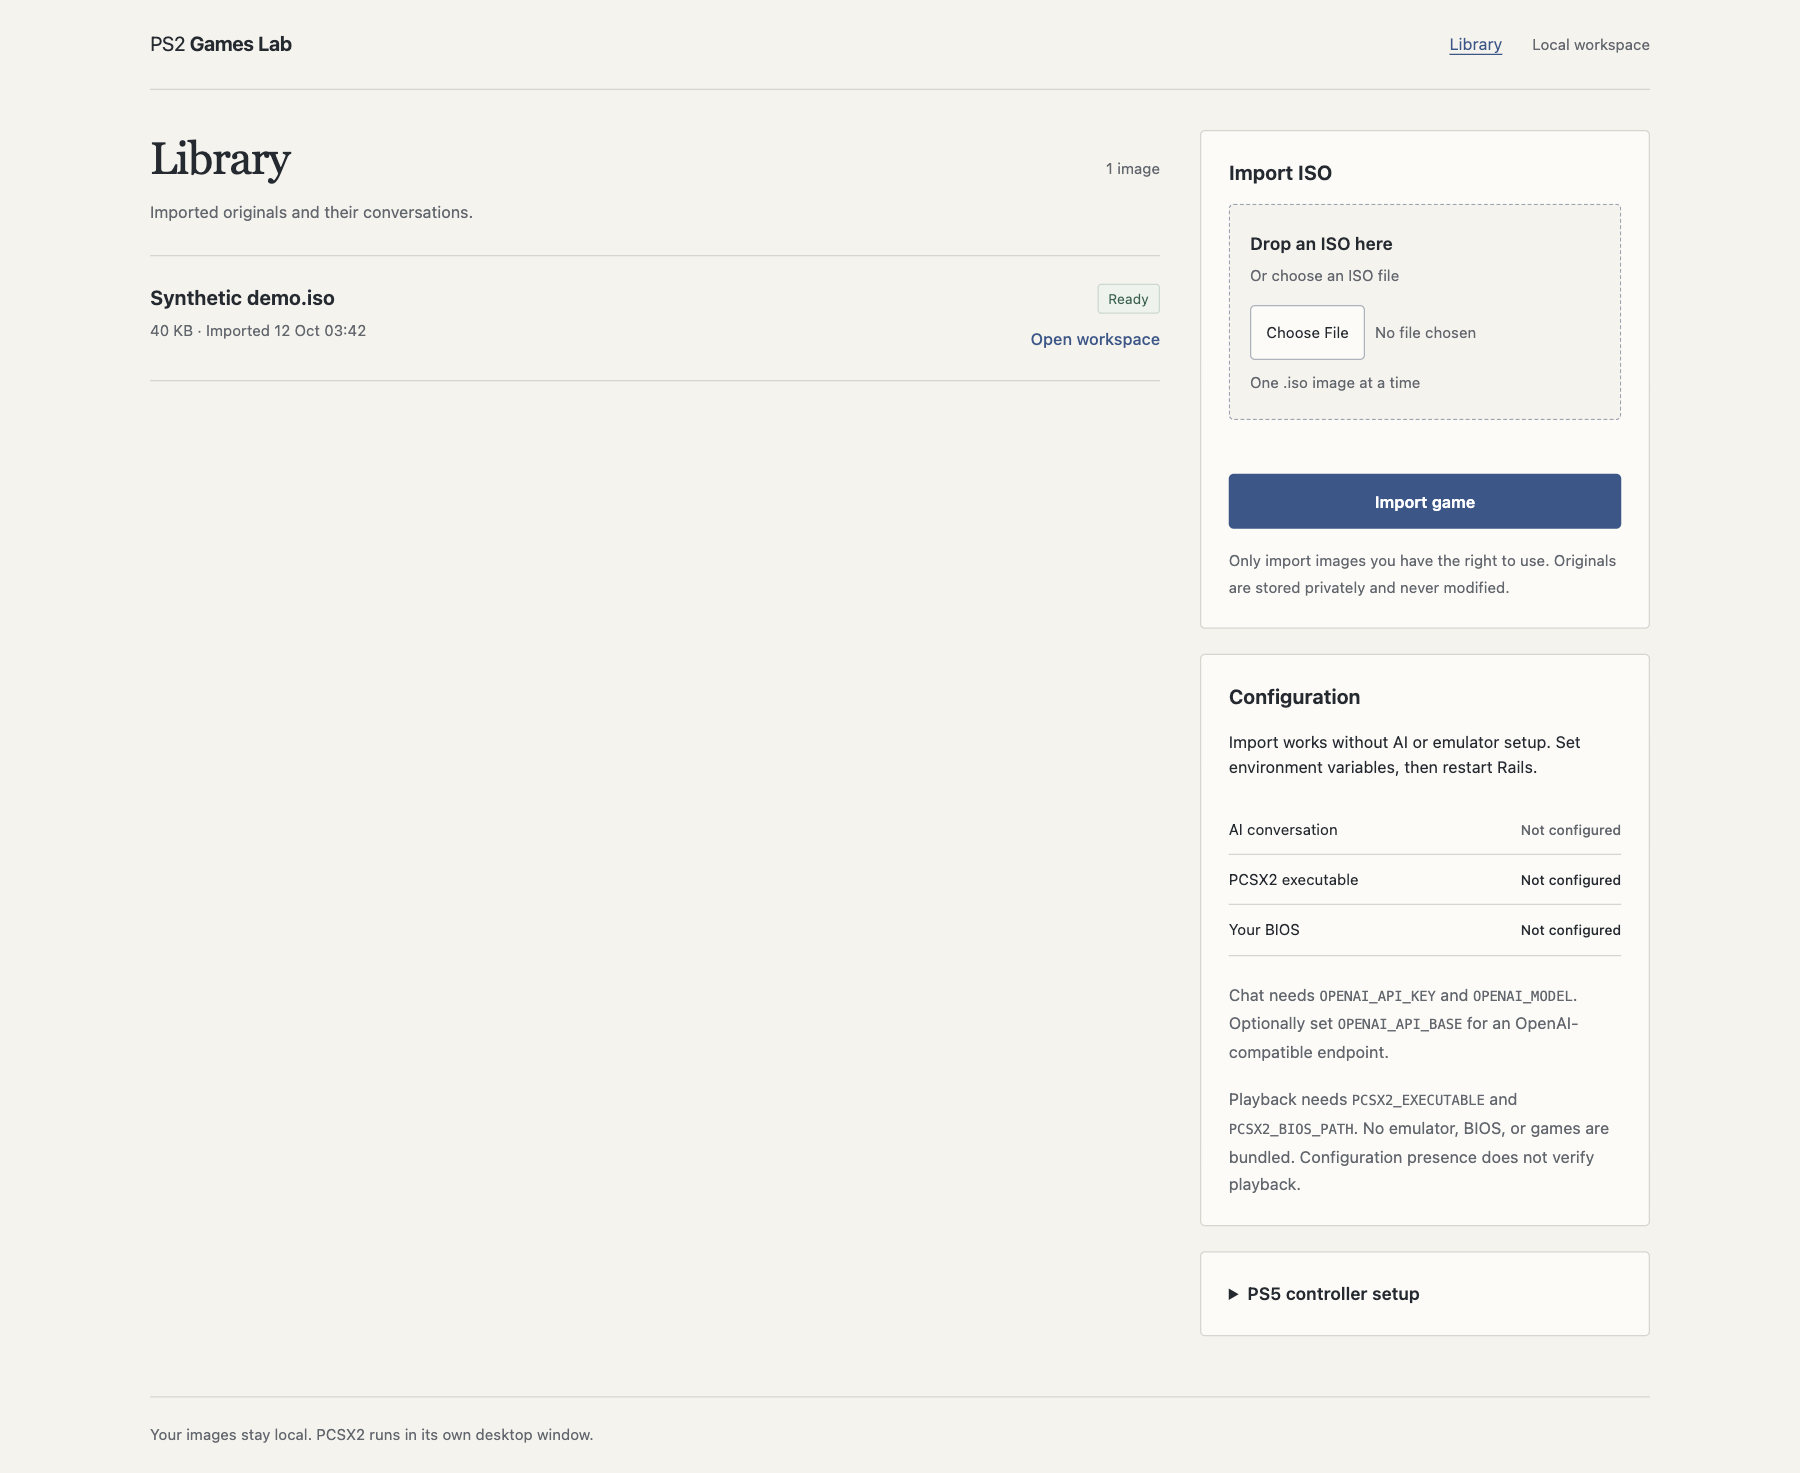
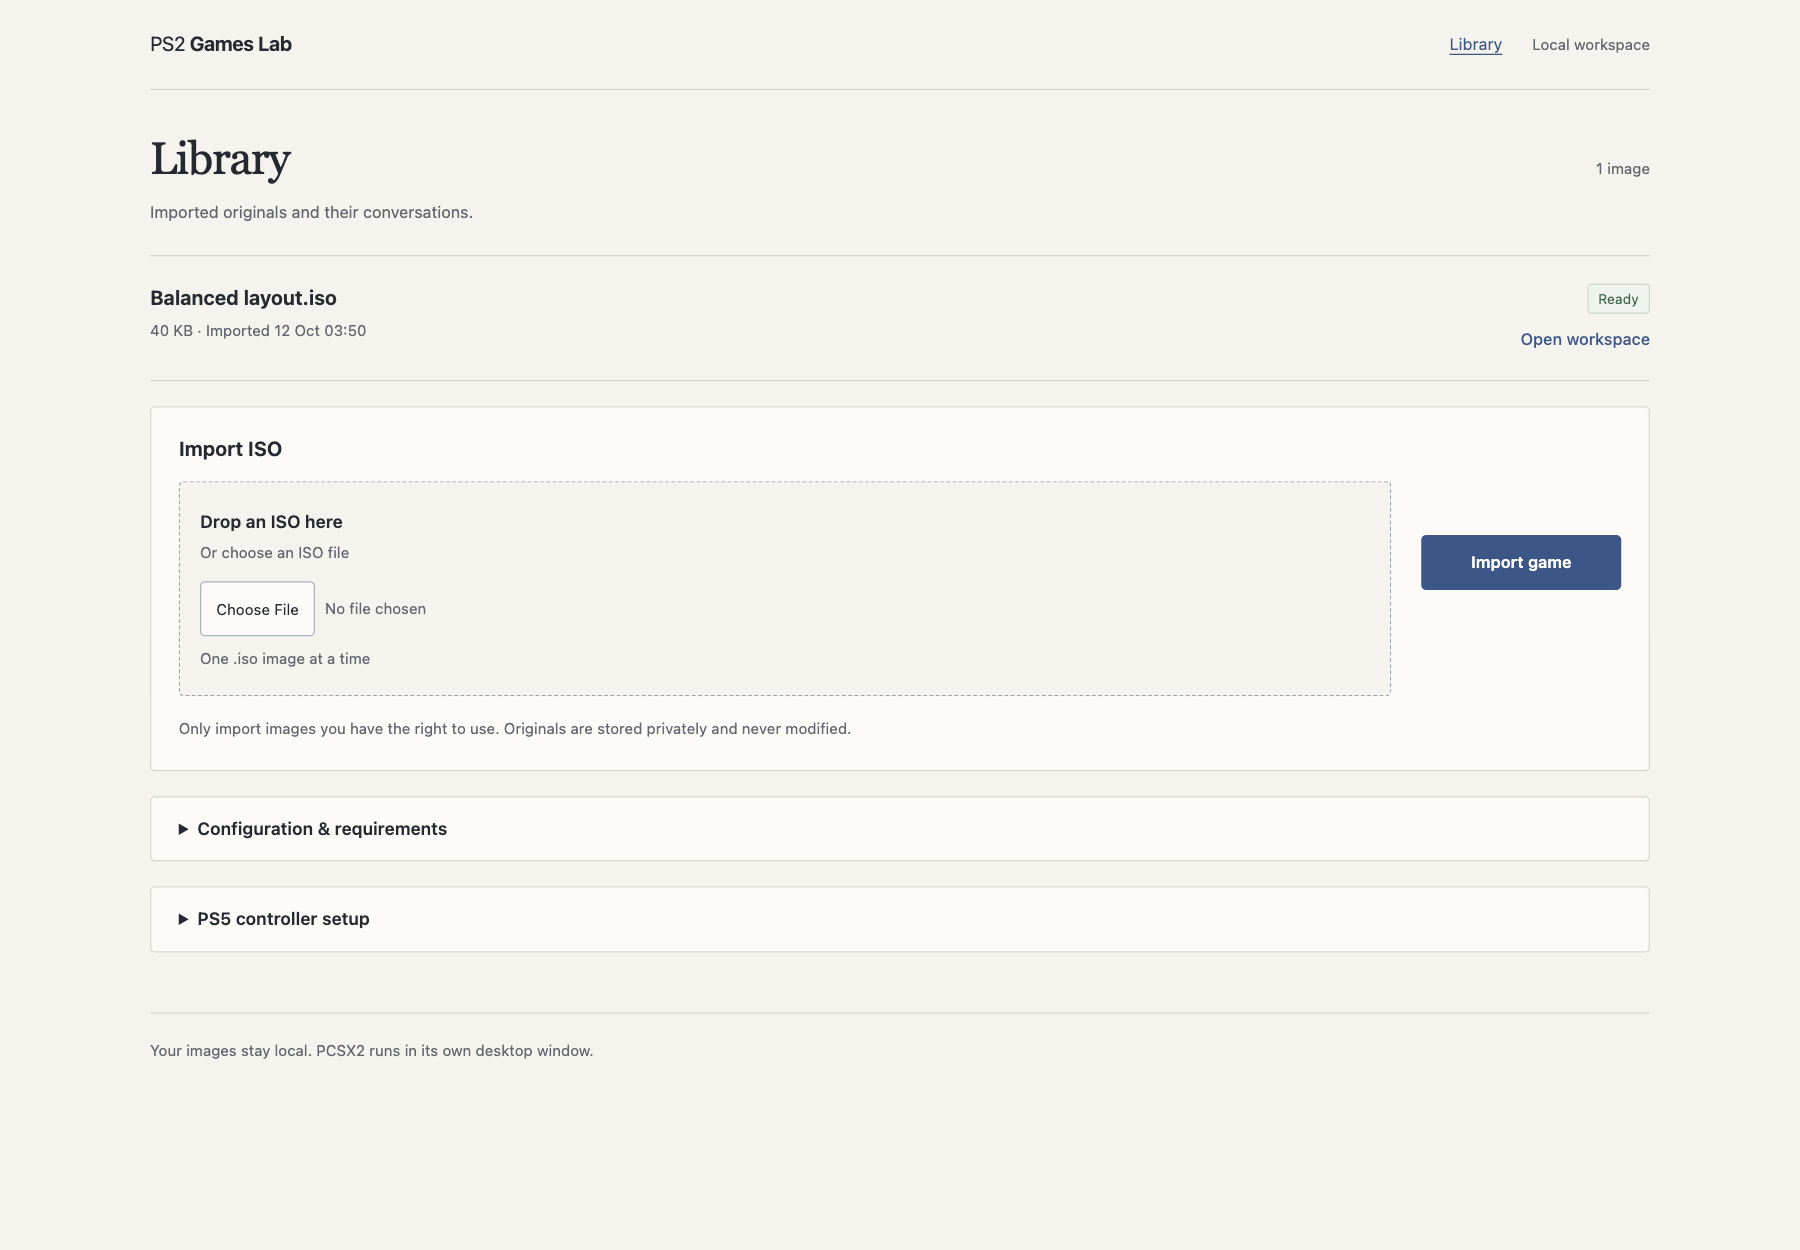
Balance library and workspace with full-width content flow

diff --git a/app/assets/stylesheets/application.css b/app/assets/stylesheets/application.css
@@ -67,21 +67,29 @@ code { font-family: ui-monospace, SFMono-Regular, monospace; font-size: .85em; o
 .skip-link { position: absolute; left: 20px; top: -100px; z-index: 10; padding: 10px 14px; background: var(--paper); }
 .skip-link:focus { top: 10px; }
 
-.library-grid, .workspace-grid {
-  display: grid;
-  grid-template-columns: minmax(0, 1fr) minmax(310px, 360px);
-  align-items: start;
-  gap: 32px;
-}
-.library-section, .library-sidebar, .image-sidebar { min-width: 0; }
-.library-sidebar, .image-sidebar { display: grid; gap: 20px; }
+.library-layout, .game-layout, .library-tools, .workspace-details { display: grid; gap: 20px; min-width: 0; }
+.library-section { min-width: 0; }
+.library-tools > details, .workspace-details > details { padding-block: 14px; }
+details > summary { cursor: pointer; font-size: 14px; font-weight: 600; }
+.import-panel form { display: grid; grid-template-columns: minmax(0, 1fr) auto; gap: 0 24px; align-items: center; }
+.import-panel .drop-zone { grid-row: 1 / 4; }
+.import-panel input[type="submit"] { grid-column: 2; width: auto; min-width: 160px; }
+.import-panel .upload-feedback, .import-panel .upload-progress { grid-column: 2; max-width: 280px; }
+.playback-panel { display: grid; grid-template-columns: minmax(0, 1fr) auto; gap: 8px 24px; align-items: center; }
+.playback-heading { display: flex; align-items: baseline; gap: 16px; flex-wrap: wrap; }
+.playback-heading h2 { margin: 0; }
+.playback-heading span { font-size: 12px; }
+.playback-panel > form { grid-column: 2; grid-row: 1 / 3; }
+.playback-panel > p { margin: 0; font-size: 12px; color: var(--muted); }
+.playback-panel > .notice, .playback-panel > .error-text, .playback-panel > .fine-print { grid-column: 1 / -1; margin: 0; }
+.message-content { max-width: 85ch; }
 .section-bar { display: flex; align-items: baseline; justify-content: space-between; gap: 16px; }
 .section-bar > span { font-size: 12px; white-space: nowrap; }
 .section-description { margin: 10px 0 24px; color: var(--muted); font-size: 13px; }
 .panel { min-width: 0; background: var(--paper); border: 1px solid var(--line); border-radius: var(--radius); padding: 22px; }
-.empty-state { padding: 32px 0; border-top: 1px solid var(--line); border-bottom: 1px solid var(--line); }
+.empty-state { padding: 24px 0; border-top: 1px solid var(--line); border-bottom: 1px solid var(--line); }
 .empty-state h2 { margin-bottom: 8px; }
-.empty-state p { max-width: 440px; color: var(--muted); font-size: 14px; }
+.empty-state p { margin-bottom: 0; color: var(--muted); font-size: 14px; }
 .game-list { border-top: 1px solid var(--line); }
 .game-row {
   display: grid;
@@ -123,7 +131,7 @@ progress { display: block; width: 100%; height: 10px; margin-top: 8px; accent-co
 .button-secondary:hover { background: var(--accent-wash); color: var(--accent-hover); border-color: var(--accent); }
 .button:disabled { border-color: var(--line); background: #e8e6e0; color: #70737a; cursor: not-allowed; }
 .button-full { width: 100%; }
-.setup-panel > p, .image-sidebar p { font-size: 13px; }
+.setup-panel p { font-size: 13px; }
 .setup-list { margin: 20px 0; padding: 0; list-style: none; }
 .setup-list li { display: flex; align-items: baseline; justify-content: space-between; gap: 12px; padding: 10px 0; border-bottom: 1px solid var(--line); font-size: 12px; }
 .setup-list strong { font-size: 11px; font-weight: 500; text-align: right; }
@@ -169,11 +177,6 @@ textarea:disabled { background: var(--canvas); color: var(--muted); }
 .image-metadata dd { margin: 4px 0 0; }
 .hash { font-family: ui-monospace, SFMono-Regular, monospace; font-size: 11px; line-height: 1.8; overflow-wrap: anywhere; }
 
-@media (max-width: 900px) {
-  .library-grid, .workspace-grid { grid-template-columns: minmax(0, 1fr); gap: 28px; }
-  .library-sidebar, .image-sidebar { grid-template-columns: repeat(2, minmax(0, 1fr)); align-items: start; }
-  .controller-setup { grid-column: 1 / -1; }
-}
 
 @media (max-width: 600px) {
   .site-header, .workspace, .site-footer { width: calc(100% - 32px); }
@@ -182,7 +185,10 @@ textarea:disabled { background: var(--canvas); color: var(--muted); }
   .header-nav { gap: 12px; font-size: 12px; }
   .local-badge { display: none; }
   .workspace { padding-block: 24px 32px; }
-  .library-sidebar, .image-sidebar { grid-template-columns: minmax(0, 1fr); }
+  .import-panel form, .playback-panel { grid-template-columns: minmax(0, 1fr); gap: 12px; }
+  .import-panel .drop-zone, .import-panel input[type="submit"], .import-panel .upload-feedback, .import-panel .upload-progress, .playback-panel > form { grid-column: 1; grid-row: auto; max-width: none; }
+  .import-panel .upload-feedback:empty { margin: 0; min-height: 0; }
+  .playback-panel .button { width: 100%; }
   .panel { padding: 20px; }
   .game-row { grid-template-columns: minmax(0, 1fr) auto; padding-block: 18px; }
   .game-summary { grid-row: auto; grid-column: 1 / -1; }

diff --git a/README.md b/README.md
@@ -8,21 +8,21 @@ A local Rails workspace for importing PS2 disc images, chatting about modificati
 
 ## Interface
 
-The library-first layout puts imported games and their status ahead of setup. A separate sidebar contains the ISO drop zone, configuration status, and an expandable PS5 controller guide. The game workspace pairs the conversation and composer with original-image metadata and PCSX2 playback controls.
+The library and conversation occupy the full content width, without a permanent setup sidebar. Import uses a compact horizontal panel below the library; playback is a compact action bar above the conversation. Configuration requirements, original-image metadata, and the PS5 controller guide expand only when needed, so auxiliary information does not create a long column beside empty primary content.
 
-The design uses a warm off-white canvas, ink text, a muted blue accent, thin borders, and compact navigation instead of gradients, decorative tiles, or numbered onboarding panels. On narrow screens, the library and workspace stack into a single column. Streamed message updates preserve composer drafts. Controller setup is documented here and in the app; mapping itself stays in PCSX2.
+The design uses a warm off-white canvas, ink text, a muted blue accent, thin borders, and compact navigation instead of gradients, decorative tiles, or numbered onboarding panels. Import and playback controls stack on narrow screens. Pages use normal document scrolling, not nested scroll panes. Streamed message updates preserve composer drafts. Controller mapping stays in PCSX2.
 
 ## Screenshots
 
-These captures show the redesigned running Rails application with an isolated synthetic documentation record and seeded example messages. They illustrate the interface, not a real game import, live model reasoning, controller input, or PCSX2 gameplay. No game or BIOS files are in this repository.
+These captures show the running Rails application after importing a small synthetic ISO9660 fixture and receiving a deterministic response from a local OpenAI-compatible streaming fixture. They illustrate the interface, not real-game boot, model reasoning, controller input, or PCSX2 gameplay. No game or BIOS files are in this repository.
 
 ### Import and library
 
-![Running library with ISO drop zone and configuration status](docs/images/library.png)
+![Full-width library with compact ISO import and expandable setup guides](docs/images/library.png)
 
 ### Game workspace and chat
 
-![Running game workspace with persisted chat, original hash, and playback setup](docs/images/chat-workspace.png)
+![Full-width conversation with compact playback controls and expandable original metadata](docs/images/chat-workspace.png)
 
 ## Run locally
 

diff --git a/CHANGELOG.md b/CHANGELOG.md
@@ -5,6 +5,7 @@
 - Removed lab control mapping, keyboard profiles, game assignments, and PCSX2 import/export hooks. Existing native PCSX2 settings and exported profiles remain user-controlled.
 - Documented PS5 DualSense USB/Bluetooth setup and configuration in the lab-launched PCSX2 instance; added an in-app setup guide.
 - Redesigned the library and conversation workspace with a neutral palette, compact navigation, clearer hierarchy, and responsive layouts. ISO drop/import, SSE replies, draft preservation, and playback configuration states remain intact.
+- Replaced permanent library/workspace sidebars with full-width primary content, compact import/playback controls, and expandable configuration, metadata, and controller guides. Removed sidebar-driven blank space and kept normal document scrolling on desktop and mobile.
 
 ## 2026-10-11
 
